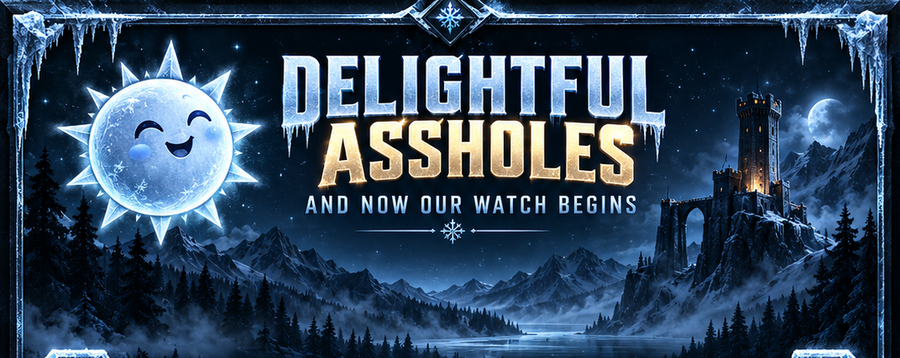
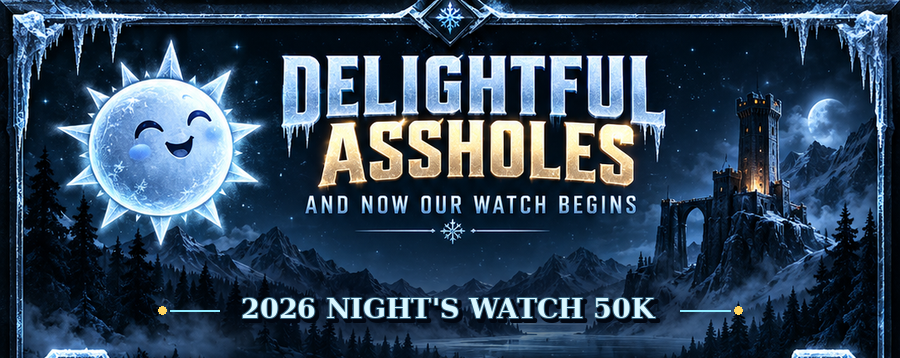
Integrate the Night's Watch title and space the chain caption

Changed region(s): [[0.1556, 0.7374, 0.84, 1.0]]

diff --git a/render_halloween.py b/render_halloween.py
@@ -136,8 +136,6 @@ def render_halloween(state: AnnouncementState, destination: Path,
     target = max(1, state.chain_target)
     percent = min(100.0, current / target * 100)
 
-    shadow_text(draw, (450, 350), "2026 NIGHT’S WATCH 50K", gothic(31), GOLD,
-                anchor="mm")
     hit_text = f"{current:,} / {target:,}"
     hit_face = fitted(draw, hit_text, 72, 45, 730)
     centered_segments(
@@ -146,7 +144,7 @@ def render_halloween(state: AnnouncementState, destination: Path,
         ((f"{current:,}", ICE), (" / ", WHITE), (f"{target:,}", PINK)),
         hit_face,
     )
-    draw.text((450, 491), "CHAIN HITS", font=font(19, True), fill=MUTED, anchor="mm")
+    draw.text((450, 516), "CHAIN HITS", font=font(17, True), fill=MUTED, anchor="mm")
 
     # The template provides the dimensional frozen track; this is the live fill.
     track = (92, 579, 808, 642)
